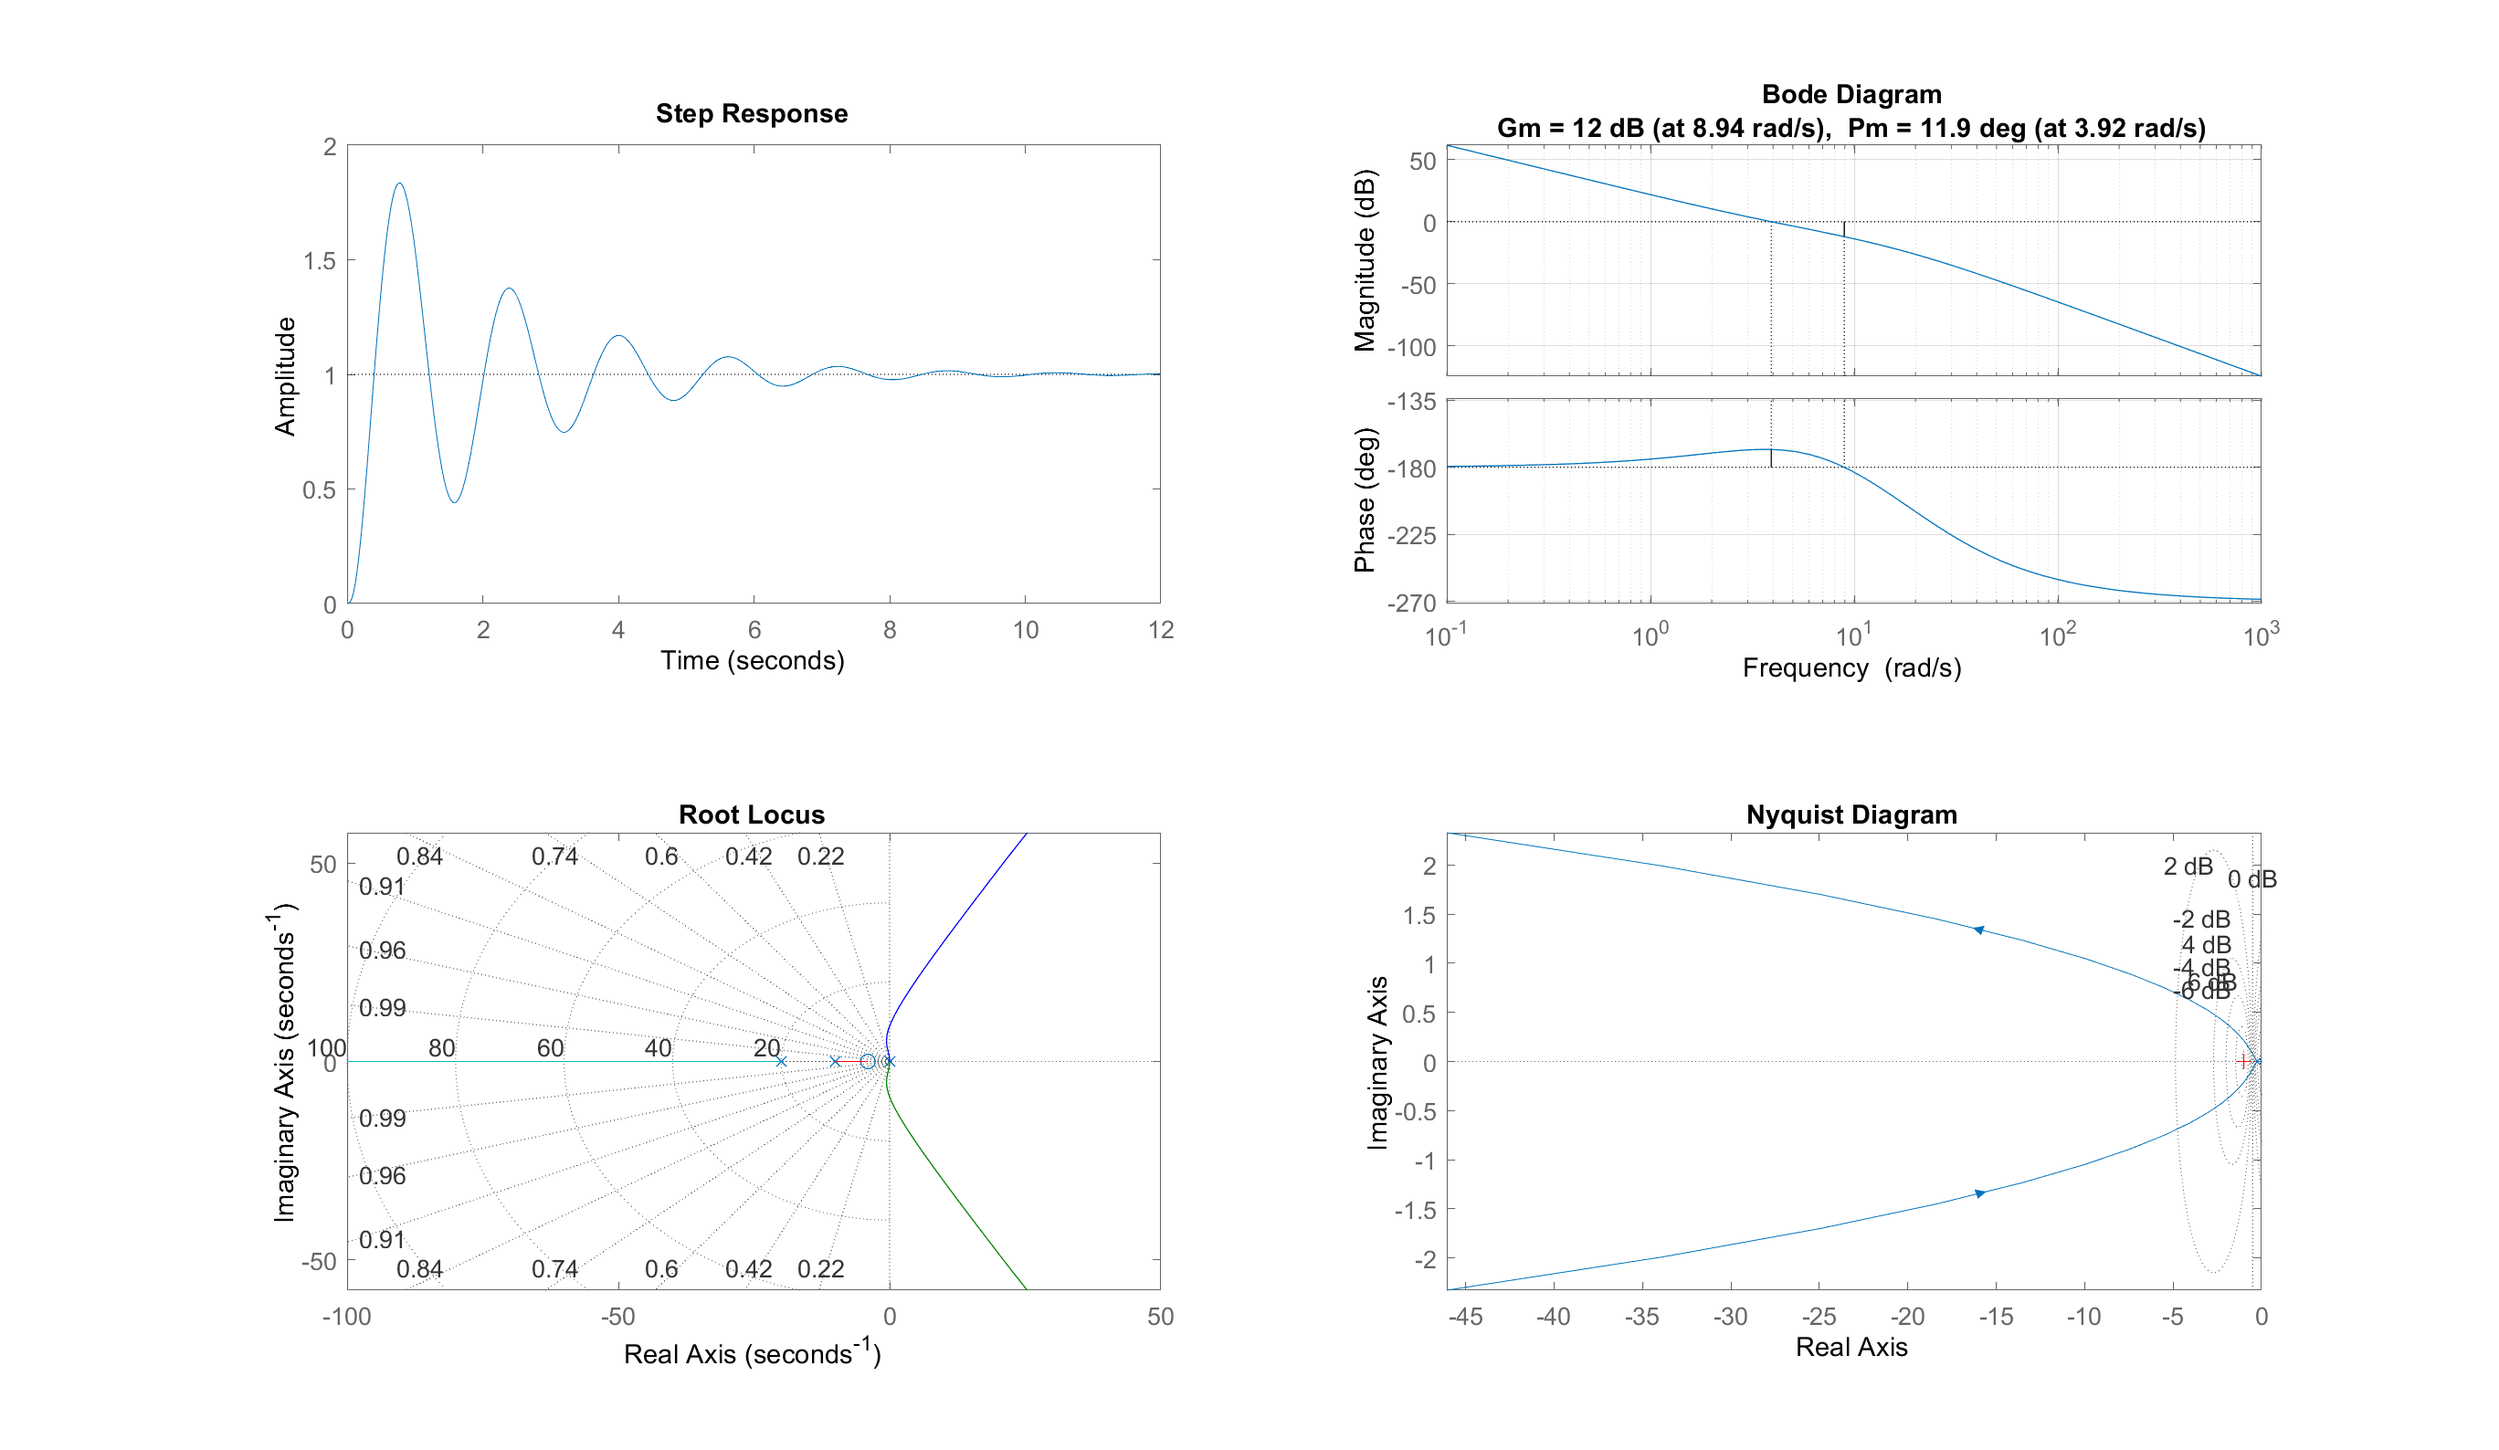
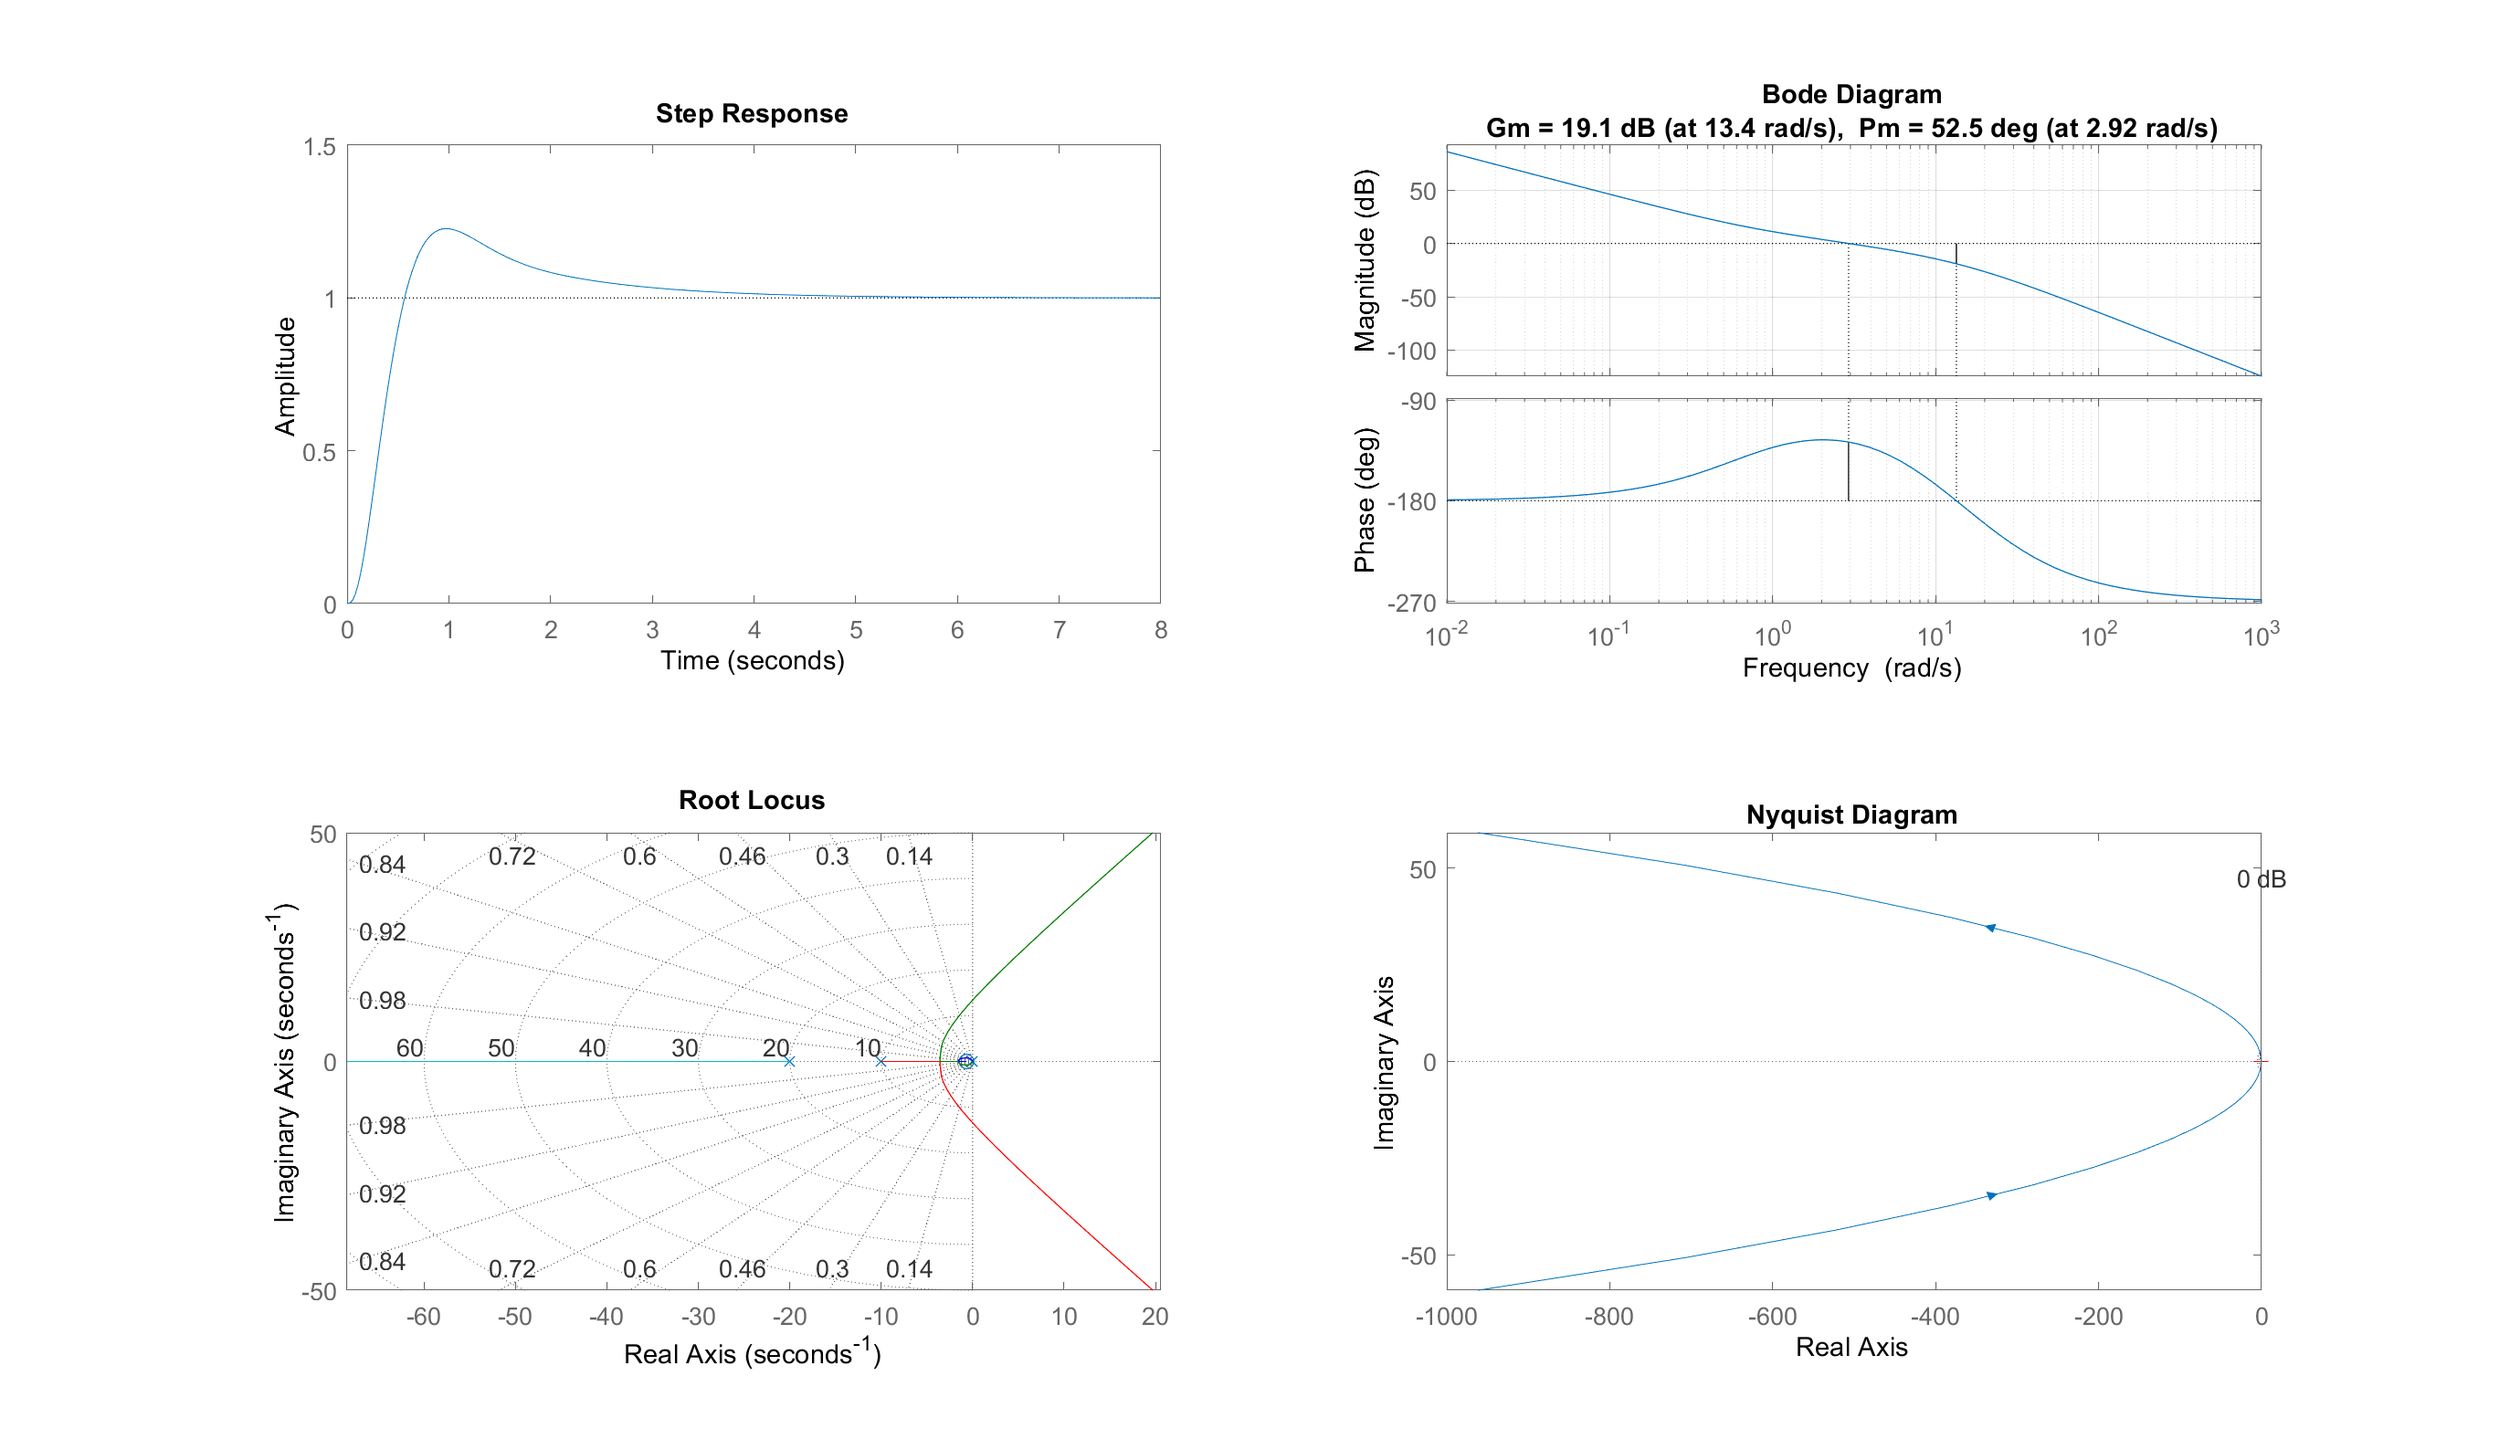
update figure and create file tuning

diff --git a/tuning.m b/tuning.m
@@ -1,0 +1,19 @@
+syms s;
+numerator = 4000;
+denominator = [1, 30, 200, 0];
+L = tf(numerator, denominator); 
+
+Kp = 0.48;
+Ki = 0;
+Kd = 0.08;
+Tf = 0.01;
+PD = pid(Kp, Ki, Kd, Tf);
+
+P_ControlledSys = L * PD;
+P_ControlledCLSys = feedback(P_ControlledSys, 1);
+stepinfo(P_ControlledCLSys)
+subplot(2,1,1)
+step(P_ControlledCLSys);
+subplot(2,1,2)
+margin(P_ControlledSys)
+pole(P_ControlledCLSys)

diff --git a/ContinuousTime.m b/ContinuousTime.m
@@ -32,7 +32,7 @@ PlotSysAll(P_ControlledSys)
 
 % PI controller
 Kp = 0.15;
-Ki = 0.6;
+Ki = 0.1;
 Kd = 0;
 Tf = 0.01;
 PI = pid(Kp, Ki, Kd, Tf);
